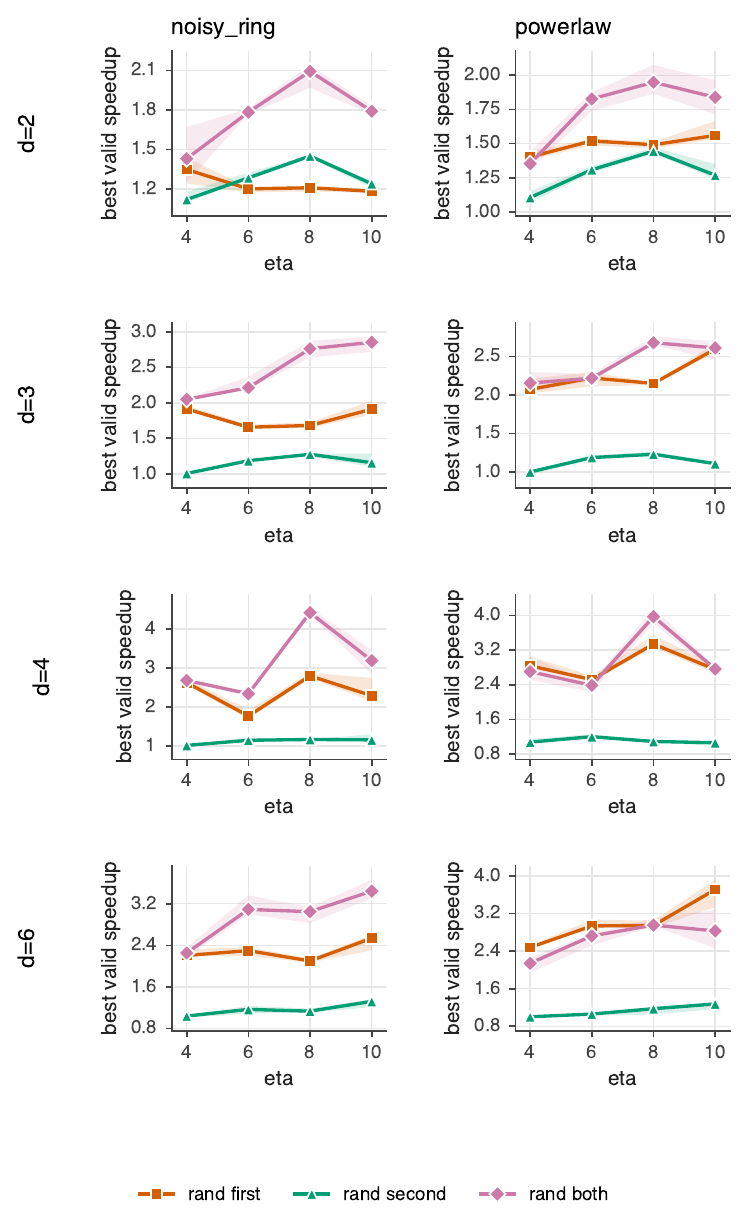
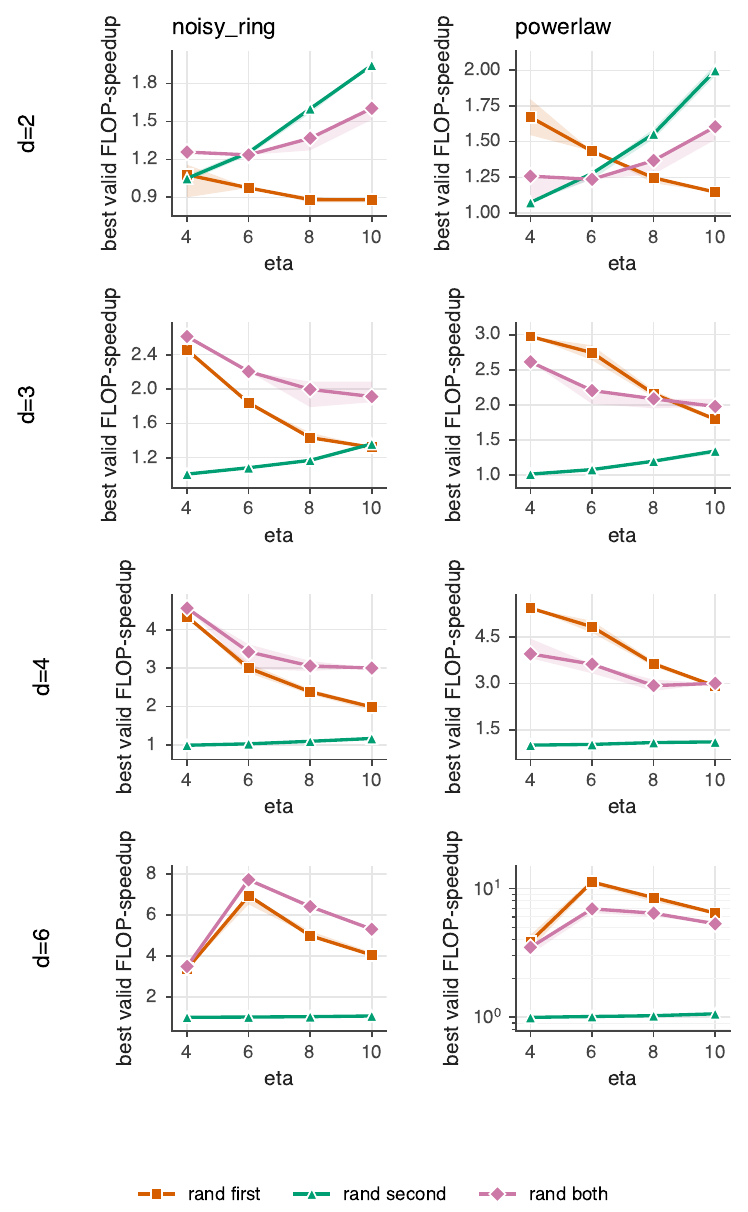
Roll out implementation-free cost model to all timing experiments (exp07/08/09 + exp01)
Every speedup/runtime experiment now reports the implementation-free FLOP-speedup
(+ passes/peak-memory) as the PRIMARY, library/hardware-independent metric; wall-clock
is kept as a labeled secondary so no method is judged by BLAS-3-vs-sparse-matmul.

- cost_model.local_ring_compare(): whole local two-SVD decomp FLOP-speedup/mem/passes
  from MosesDims shapes.
- exp07 phase diagram: primary figure is now FLOP-speedup vs rho (clean ~1/rho trend,
  free of BLAS scatter noise) + a wall-clock companion.
- exp08 time-to-accuracy: primary = best-valid FLOP-speedup + wall-clock companion.
- exp09 svd1 microbench: added a FLOP-vs-wall-clock speedup panel.
- exp01 real stage ablation: per-method FLOP-speedup from MosesStats records, new panel.
  FLOP-speedup <= 1 for all methods at 3x3 -> no algorithm-level speedup at this scale
  either (consistent with wall-clock); the win is a low-rho / larger-matrix phenomenon.

pytest 23 pass; compileall clean; all figures regenerated.

diff --git a/experiments/synthetic_kernels/scripts/exp07_rank_fraction_phase_diagram.py b/experiments/synthetic_kernels/scripts/exp07_rank_fraction_phase_diagram.py
@@ -27,6 +27,7 @@ import math
 
 import numpy as np
 
+from rand_isopeps.experiment_utils.cost_model import compare as cost_compare
 from rand_isopeps.io_utils import output_paths, timestamp_slug, write_csv
 from rand_isopeps.local_ring_decomp import local_ring_decomp
 from rand_isopeps.parallel import auto_worker_count, flatten, run_parallel, with_blas_threads
@@ -61,11 +62,16 @@ def _run_trial(task: tuple[argparse.Namespace, dict, int]) -> list[dict[str, obj
                 tensor, dims, mode=mode, oversample=combo["oversample"],
                 n_power=args.n_power, sketch=args.sketch, rng=rng,
             ).metrics(tensor)
+            m_, n_ = dims.matrix_shape(target)
+            k_ = dims.target_rank(target)
+            fc = cost_compare(m_, n_, k_, min(k_ + combo["oversample"], m_, n_),
+                              n_power=args.n_power, sketch=args.sketch)  # implementation-free
             rows.append({
                 **dims.as_dict(), "ensemble": combo["ensemble"], "target": target,
                 "oversample": combo["oversample"], "trial": trial,
                 "rho": dims.rank_fraction(target, combo["oversample"]),
-                "speedup": float(det[time_key]) / max(float(rnd[time_key]), 1e-12),
+                "speedup": float(det[time_key]) / max(float(rnd[time_key]), 1e-12),  # wall-clock
+                "flop_speedup": fc.flop_speedup, "mem_ratio": fc.mem_ratio,
                 "excess_error": float(rnd["rel_error"]) - float(det["rel_error"]),
             })
         return rows
@@ -84,37 +90,41 @@ def run(args: argparse.Namespace) -> tuple[str, str]:
     stamp = timestamp_slug()
     csv_path, fig_path = output_paths(SUITE, f"exp7-phase-{stamp}")
     write_csv(csv_path, rows)
-    make_plot(rows, fig_path, args.ensembles)
+    # PRIMARY = implementation-free FLOP-speedup vs rho; SECONDARY = wall-clock (this machine)
+    make_plot(rows, fig_path, args.ensembles, "flop_speedup", "FLOP-speedup (det / rand)")
+    _, fig_wall = output_paths(SUITE, f"exp7-phase-wallclock-{stamp}")
+    make_plot(rows, fig_wall, args.ensembles, "speedup", "wall-clock speedup (det / rand)")
     return csv_path, fig_path
 
 
-def _points(rows: list[dict[str, object]]) -> tuple[list[float], list[float], list[float]]:
-    """Median (rho, speedup, log10 excess) per parameter group."""
+def _points(rows: list[dict[str, object]], y_key: str = "speedup") -> tuple[list[float], list[float], list[float]]:
+    """Median (rho, y_key, log10 excess) per parameter group."""
     groups: dict[tuple, list[dict]] = defaultdict(list)
     for r in rows:
         groups[(r["chi"], r["eta"], r["d"], r["oversample"])].append(r)
     xs, ys, cs = [], [], []
     for pts in groups.values():
         xs.append(float(pts[0]["rho"]))
-        ys.append(float(np.median([p["speedup"] for p in pts])))
+        ys.append(float(np.median([p[y_key] for p in pts])))
         excess = float(np.median([p["excess_error"] for p in pts]))
         cs.append(math.log10(max(excess, EXCESS_FLOOR)))
     return xs, ys, cs
 
 
-def make_plot(rows: list[dict[str, object]], fig_path: str, ensembles: list[str]) -> None:
-    """Rows = ensemble, columns = SVD target; x = rho, y = speedup, color = excess."""
+def make_plot(rows: list[dict[str, object]], fig_path: str, ensembles: list[str],
+              y_key: str, ylabel: str) -> None:
+    """Rows = ensemble, columns = SVD target; x = rho, y = ``y_key``, color = excess."""
     all_c = []
     grid: list[list[ScatterPanel]] = []
     for ens in ensembles:
         row_panels = []
         for target, (_, _, marker) in TARGETS.items():
             sub = [r for r in rows if r["ensemble"] == ens and r["target"] == target]
-            x, y, c = _points(sub)
+            x, y, c = _points(sub, y_key)
             all_c.extend(c)
             row_panels.append(ScatterPanel(
                 title=f"SVD{1 if target == 'first' else 2}",
-                xlabel=r"$\rho=(k+s)/\min(m,n)$", ylabel="speedup (det / rand)",
+                xlabel=r"$\rho=(k+s)/\min(m,n)$", ylabel=ylabel,
                 xscale="log", yscale="log",
                 series=[ScatterSeries(f"SVD{1 if target == 'first' else 2}", x, y, c, marker)],
                 hlines=[1.0],

diff --git a/experiments/real_moses_move/scripts/exp01_real_moses_move.py b/experiments/real_moses_move/scripts/exp01_real_moses_move.py
@@ -47,6 +47,7 @@ from time import perf_counter
 import numpy as np
 
 from rand_isopeps.aggregate import median_band
+from rand_isopeps.experiment_utils.cost_model import rsvd_flops, svd_truncate_flops
 from rand_isopeps.io_utils import output_paths, timestamp_slug, write_csv
 from rand_isopeps.parallel import run_parallel, with_blas_threads
 # NOTE: rand_isopeps.plotting (-> matplotlib) is imported lazily in the plotting
@@ -117,12 +118,19 @@ def _run_one(args, eta, inst, sk, mi, name, stages):
                       sweep="up", split="left", renorm=False, rand=cfg, stats=stats)
     runtime = perf_counter() - t
     overlap = abs((psi0.H | psi).contract()) / (psi0.norm() * psi.norm())
+    # implementation-free total FLOPs of the move's local SVDs (a stage is randomized when
+    # its recorded ell > k); paired against det -> flop_speedup, the fair analogue of runtime.
+    total_flops = sum(
+        rsvd_flops(rec.m, rec.n, rec.k, rec.ell, n_power=1, sketch=args.sketch)
+        if rec.ell > rec.k else svd_truncate_flops(rec.m, rec.n)
+        for rec in stats.records)
     return {
         "method": name, "eta": eta, "instance": inst,
         "sketch": args.sketch if stages else "none", "sketch_seed": sk if stages else -1,
         "state_error": float(max(1.0 - overlap, 0.0)),
         "norm_ratio": float(psi.norm() / psi0.norm() - 1.0),
         "max_trunc_err": float(np.max(errs)), "runtime_s": runtime,
+        "total_flops": float(total_flops),
         **_stage_metrics(stats),
     }
 
@@ -147,6 +155,7 @@ def run(args):
           f"bond={args.bond}, chi={args.chi}, sketch={args.sketch})")
     rows = run_parallel(_task, tasks, workers)
     _attach_excess(rows)
+    _attach_flops(rows)
     stamp = timestamp_slug()
     csv_path, fig_path = output_paths(SUITE, f"exp01-stage-ablation-{stamp}")
     write_csv(csv_path, rows)
@@ -159,6 +168,15 @@ def _attach_excess(rows):
     base = {(r["eta"], r["instance"]): r["state_error"] for r in rows if r["method"] == "det"}
     for r in rows:
         r["excess_state_error"] = r["state_error"] - base.get((r["eta"], r["instance"]), float("nan"))
+
+
+def _attach_flops(rows):
+    """Paired implementation-free FLOP-speedup over det on the same (eta, instance) -- the fair,
+    machine-independent analogue of the wall-clock runtime panel."""
+    base = {(r["eta"], r["instance"]): r["total_flops"] for r in rows if r["method"] == "det"}
+    for r in rows:
+        d = base.get((r["eta"], r["instance"]), float("nan"))
+        r["flop_speedup"] = d / r["total_flops"] if r.get("total_flops") else float("nan")
 
 
 def _series(rows, key, order, ci=None):
@@ -189,10 +207,13 @@ def make_plot(rows, fig_path):
               _series(rows, "state_error", order)),
         Panel("excess over deterministic", "eta", "state err (rand - det)", "linear",
               _series(rows, "excess_state_error", order[1:])),
-        Panel("Moses-move runtime", "eta", "runtime (s)", "log", _series(rows, "runtime_s", order)),
+        Panel("FLOP-speedup (impl-free)", "eta", "det_flops / rand_flops", "log",
+              _series([r for r in rows if r["method"] != "det"], "flop_speedup", order[1:])),
+        Panel("Moses-move runtime (this machine)", "eta", "runtime (s)", "log",
+              _series(rows, "runtime_s", order)),
         Panel("rank fraction by stage", "eta", "rho = (k+s)/min(m,n)", "linear", rho_series),
     ]
-    write_line_panels(fig_path, panels, width=1500, height=420)
+    write_line_panels(fig_path, panels, width=1850, height=420)
 
 
 def parse_args():

diff --git a/experiments/synthetic_kernels/scripts/exp08_min_time_to_accuracy.py b/experiments/synthetic_kernels/scripts/exp08_min_time_to_accuracy.py
@@ -22,6 +22,7 @@ import argparse
 import numpy as np
 
 from rand_isopeps.aggregate import median_band
+from rand_isopeps.experiment_utils.cost_model import local_ring_compare
 from rand_isopeps.io_utils import output_paths, timestamp_slug, write_csv
 from rand_isopeps.local_ring_decomp import LocalMode, local_ring_decomp
 from rand_isopeps.parallel import auto_worker_count, flatten, run_parallel, with_blas_threads
@@ -32,6 +33,8 @@ from rand_isopeps.tn_shapes import MosesDims
 SUITE = "synthetic_kernels"
 
 RAND_MODES: tuple[LocalMode, ...] = ("rand_first", "rand_second", "rand_both")
+# which local SVDs each mode randomizes -> (randomize_first, randomize_second), for the cost model
+_MODE_STAGES = {"rand_first": (True, False), "rand_second": (False, True), "rand_both": (True, True)}
 ISO_TOL = 1e-10
 
 
@@ -78,8 +81,16 @@ def _run_trial(task: tuple[argparse.Namespace, int, int, str, int]) -> list[dict
                 sp, cfg = _best_speedup(tensor, dims, mode, det_time, det_err,
                                         args.oversamples, args.n_powers, tol, rng)
                 tag = f"{tol:g}".replace(".", "p")
-                row[f"speedup_{tag}"] = sp
+                row[f"speedup_{tag}"] = sp  # wall-clock (this machine)
                 row[f"cfg_{tag}"] = "" if cfg is None else f"s={cfg[0]},q={cfg[1]}"
+                # implementation-free FLOP-speedup at the same matched config (the fair metric)
+                if cfg is not None:
+                    fc = local_ring_compare(dims, *_MODE_STAGES[mode], oversample=cfg[0], n_power=cfg[1])
+                    row[f"flop_speedup_{tag}"] = fc["flop_speedup"]
+                    row[f"mem_ratio_{tag}"] = fc["mem_ratio"]
+                else:
+                    row[f"flop_speedup_{tag}"] = float("nan")
+                    row[f"mem_ratio_{tag}"] = float("nan")
             rows.append(row)
         return rows
 
@@ -94,9 +105,13 @@ def run(args: argparse.Namespace) -> tuple[str, str]:
     rows = flatten(run_parallel(_run_trial, tasks, workers))
 
     stamp = timestamp_slug()
+    tag = f"{args.tols[-1]:g}".replace(".", "p")
     csv_path, fig_path = output_paths(SUITE, f"exp8-tta-{stamp}")
     write_csv(csv_path, rows)
-    make_plot(rows, fig_path, args.ds, args.ensembles, args.tols[-1])
+    # PRIMARY figure = implementation-free FLOP-speedup; secondary = wall-clock (this machine)
+    make_plot(rows, fig_path, args.ds, args.ensembles, f"flop_speedup_{tag}", "best valid FLOP-speedup")
+    _, fig_wall = output_paths(SUITE, f"exp8-tta-wallclock-{stamp}")
+    make_plot(rows, fig_wall, args.ds, args.ensembles, f"speedup_{tag}", "best valid wall-clock speedup")
     return csv_path, fig_path
 
 
@@ -109,12 +124,11 @@ def _series(rows, key):
     ]
 
 
-def make_plot(rows, fig_path, ds, ensembles, tol) -> None:
-    """Rows = d, columns = ensemble; best valid speedup (at the loosest tol) vs eta."""
-    key = f"speedup_{tol:g}".replace(".", "p")
+def make_plot(rows, fig_path, ds, ensembles, key, ylabel) -> None:
+    """Rows = d, columns = ensemble; ``key`` (best valid speedup, at the loosest tol) vs eta."""
     grid = [
         [
-            Panel(ensemble, "eta", "best valid speedup", "log",
+            Panel(ensemble, "eta", ylabel, "log",
                   _series([r for r in rows if int(r["d"]) == d and r["ensemble"] == ensemble], key))
             for ensemble in ensembles
         ]

diff --git a/experiments/synthetic_kernels/scripts/exp09_svd1_microbenchmark.py b/experiments/synthetic_kernels/scripts/exp09_svd1_microbenchmark.py
@@ -20,6 +20,7 @@ from time import perf_counter
 import numpy as np
 import scipy.linalg as la
 
+from rand_isopeps.experiment_utils.cost_model import compare as cost_compare
 from rand_isopeps.io_utils import output_paths, timestamp_slug, write_csv
 from rand_isopeps.parallel import auto_worker_count, flatten, run_parallel, with_blas_threads
 from rand_isopeps.plotting import Panel, Series, write_panel_grid
@@ -40,6 +41,8 @@ _STYLE = {
     "reconstruct": ("#999999", "X"),
     "det_error": ("#0072b2", "o"),
     "rand_error": ("#d55e00", "s"),
+    "flop_speedup": ("#d55e00", "s"),
+    "wall_speedup": ("#0072b2", "o"),
 }
 
 
@@ -100,10 +103,16 @@ def _run_trial(task: tuple[argparse.Namespace, int, str, int]) -> list[dict[str,
         det_error = relative_frobenius_error(a, det_approx)
 
         stages = _timed_rsvd(a, k1, args.oversample, args.n_power, rng)
+        # implementation-free FLOP-speedup for the first SVD (the fair metric vs wall-clock)
+        fc = cost_compare(dims.n1, dims.n2 * dims.n3, k1,
+                          min(k1 + args.oversample, dims.n1, dims.n2 * dims.n3),
+                          n_power=args.n_power, sketch="gaussian")
         return [{
             **dims.as_dict(), "ensemble": ensemble, "trial": trial,
             "oversample": args.oversample, "n_power": args.n_power,
             "det_total": det_total, "det_error": det_error, **stages,
+            "flop_speedup": fc.flop_speedup, "mem_ratio": fc.mem_ratio,
+            "wall_speedup": det_total / max(stages["rand_total"], 1e-12),
         }]
 
 
@@ -143,6 +152,8 @@ def make_plot(rows, fig_path, ensembles) -> None:
     """Rows = ensemble; columns = total time (det vs rand), rand stage breakdown, accuracy."""
     grid = [
         [
+            Panel("speedup: FLOP vs wall-clock", "d", "speedup (det / rand)", "log",
+                  _series(sub, ["flop_speedup", "wall_speedup"])),
             Panel("det vs rand total", "d", "first-SVD time (s)", "log",
                   _series(sub, ["det_total", "rand_total"])),
             Panel("rand stage breakdown", "d", "stage time (s)", "log",
@@ -153,8 +164,9 @@ def make_plot(rows, fig_path, ensembles) -> None:
         for sub in (([r for r in rows if r["ensemble"] == e]) for e in ensembles)
     ]
     write_panel_grid(fig_path, grid, row_titles=list(ensembles),
-                     col_titles=["det vs rand total", "rand stage breakdown", "accuracy"],
-                     cell_width=400, cell_height=300)
+                     col_titles=["speedup: FLOP vs wall-clock", "det vs rand total",
+                                 "rand stage breakdown", "accuracy"],
+                     cell_width=380, cell_height=300)
 
 
 def parse_args() -> argparse.Namespace:

diff --git a/src/rand_isopeps/experiment_utils/cost_model.py b/src/rand_isopeps/experiment_utils/cost_model.py
@@ -134,3 +134,41 @@ def compare(m: int, n: int, k: int, ell: int, n_power: int = 1,
         det_passes=passes_over_a("det", n_power), rand_passes=passes_over_a("rand", n_power),
         det_peak_floats=dp, rand_peak_floats=rp, mem_ratio=dp / rp if rp else float("nan"),
     )
+
+
+def local_ring_compare(dims, randomize_first: bool, randomize_second: bool,
+                       oversample: int = 8, n_power: int = 1, sketch: str = "gaussian",
+                       zeta: int = 4) -> dict:
+    """Implementation-free cost for the synthetic local two-SVD ring decomposition.
+
+    ``dims`` is a ``MosesDims`` (exposes ``matrix_shape``/``target_rank`` for "first"/"second").
+    The decomp does a first SVD (``n1 x n2n3 -> k1``) and a second SVD
+    (``(eta n2) x (chi n3) -> k2``); a stage is randomized per its flag. Returns the
+    whole-decomp FLOP-speedup (det / rand), peak-memory ratio, and pass counts -- the fair,
+    implementation-free analogue of the wall-clock speedup the rand modes are timed by.
+    """
+    det_flops = rand_flops = 0.0
+    det_peak = rand_peak = 0.0
+    det_passes = rand_passes = 0
+    for target, randomize in (("first", randomize_first), ("second", randomize_second)):
+        m, n = dims.matrix_shape(target)
+        k = dims.target_rank(target)
+        df = svd_truncate_flops(m, n)
+        det_flops += df
+        det_peak = max(det_peak, peak_intermediate_floats("det", m, n, k, k, sketch, zeta))
+        det_passes += passes_over_a("det")
+        if randomize:
+            ell = min(k + oversample, m, n)
+            rand_flops += rsvd_flops(m, n, k, ell, n_power, sketch, zeta)
+            rand_peak = max(rand_peak, peak_intermediate_floats("rand", m, n, k, ell, sketch, zeta))
+            rand_passes += passes_over_a("rand", n_power)
+        else:
+            rand_flops += df
+            rand_peak = max(rand_peak, peak_intermediate_floats("det", m, n, k, k, sketch, zeta))
+            rand_passes += passes_over_a("det")
+    return {
+        "flop_speedup": det_flops / rand_flops if rand_flops else float("nan"),
+        "det_flops": det_flops, "rand_flops": rand_flops,
+        "mem_ratio": det_peak / rand_peak if rand_peak else float("nan"),
+        "det_passes": det_passes, "rand_passes": rand_passes,
+    }
